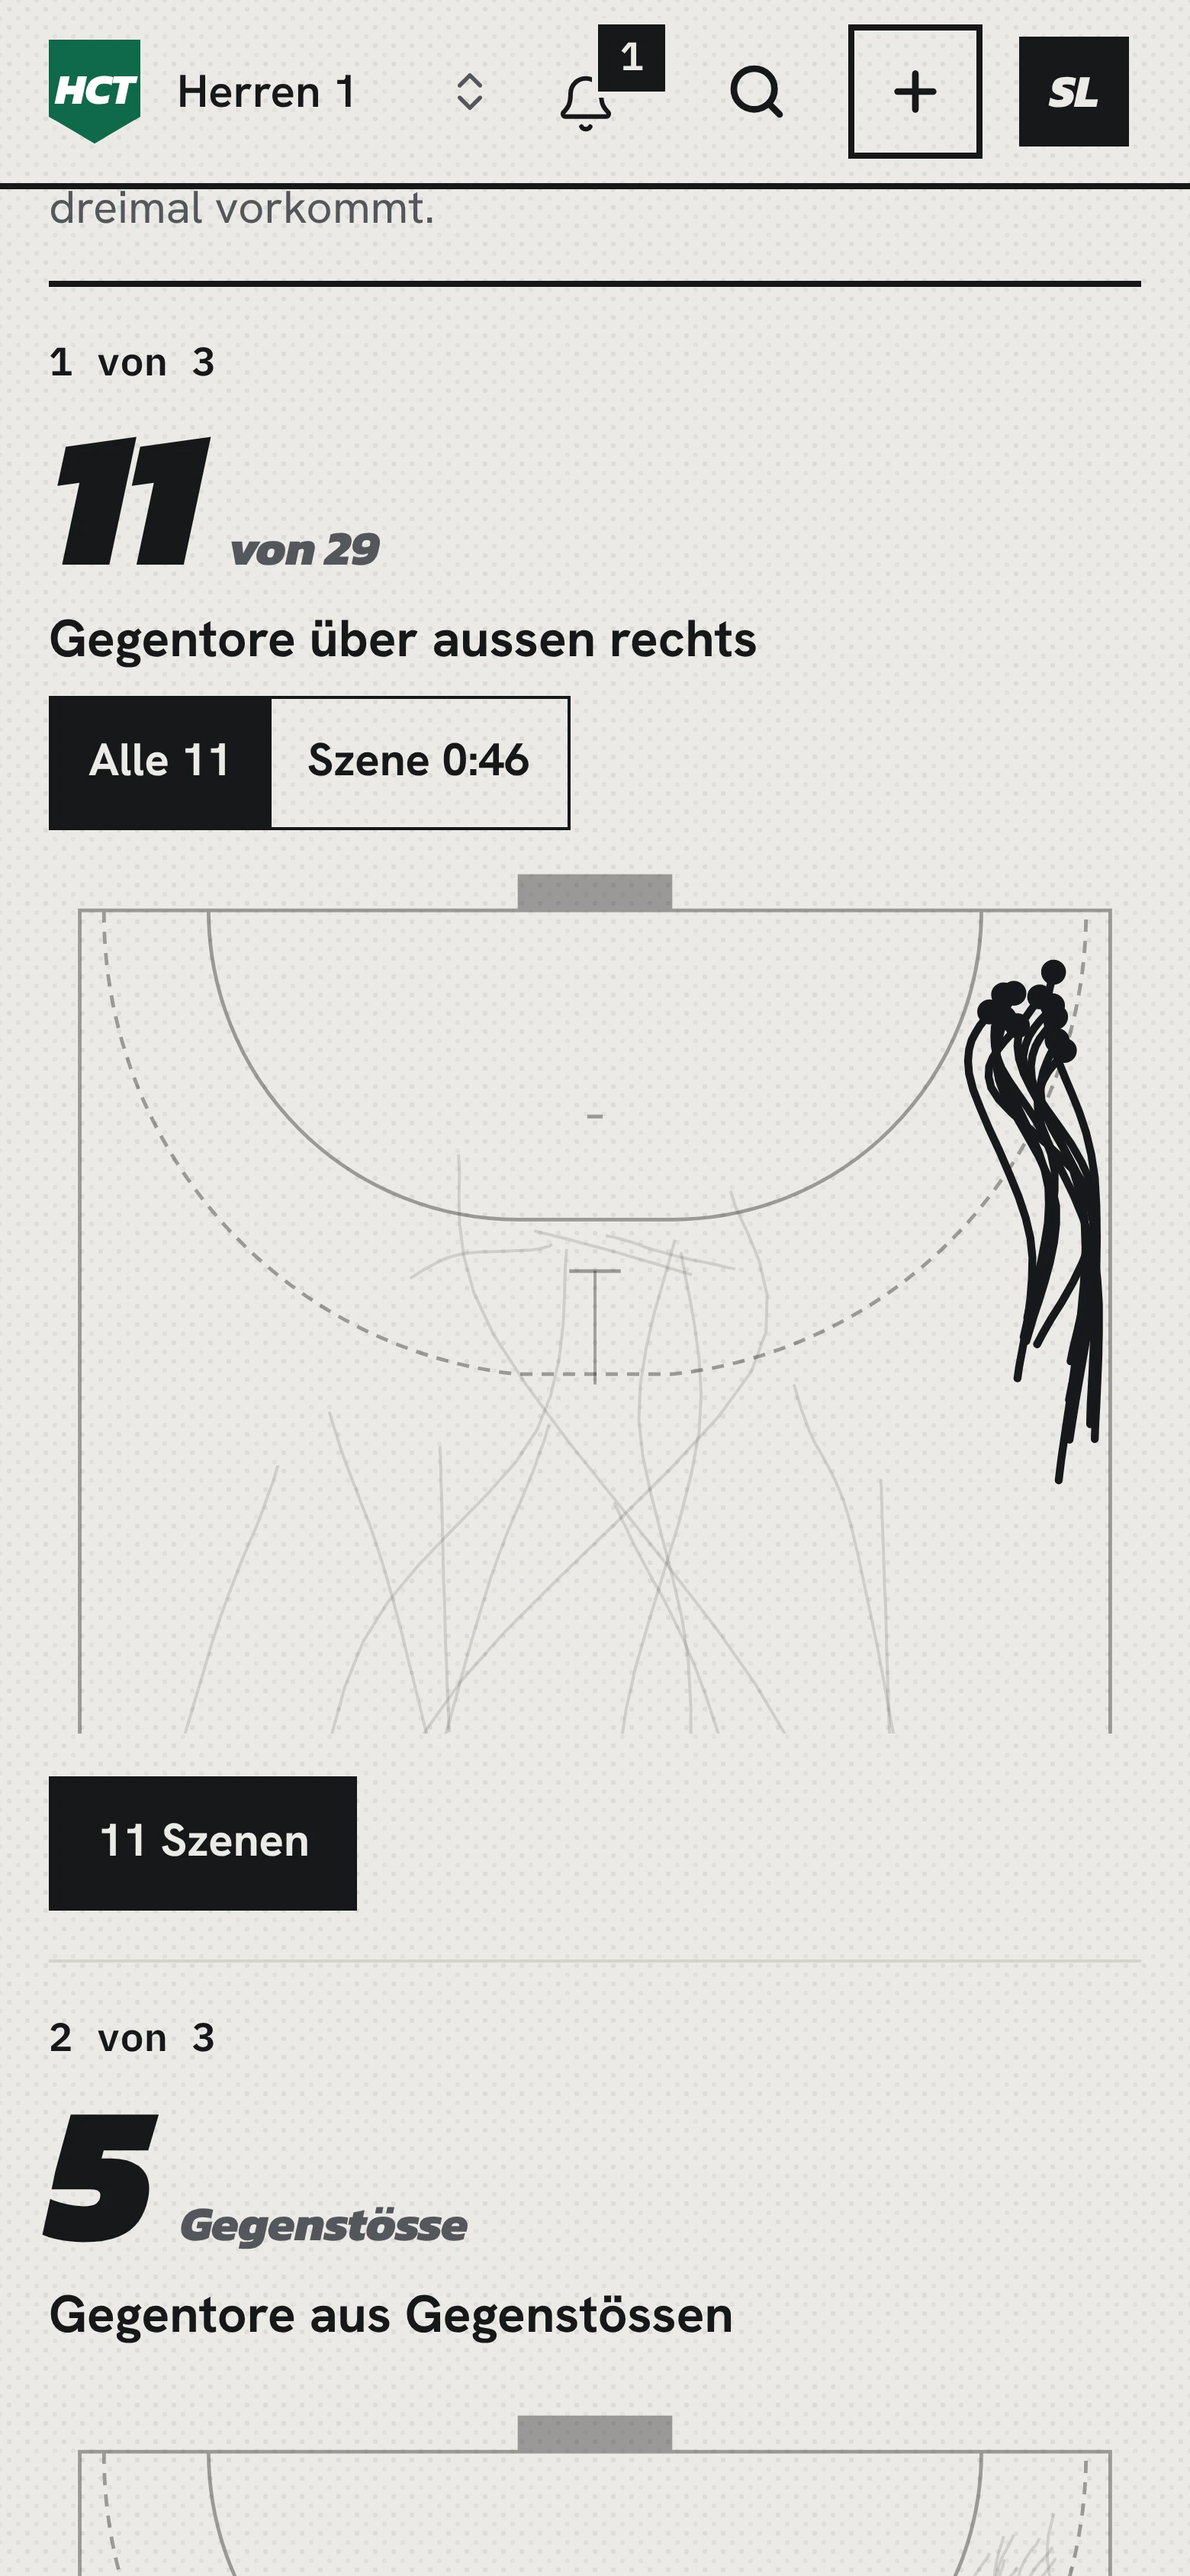
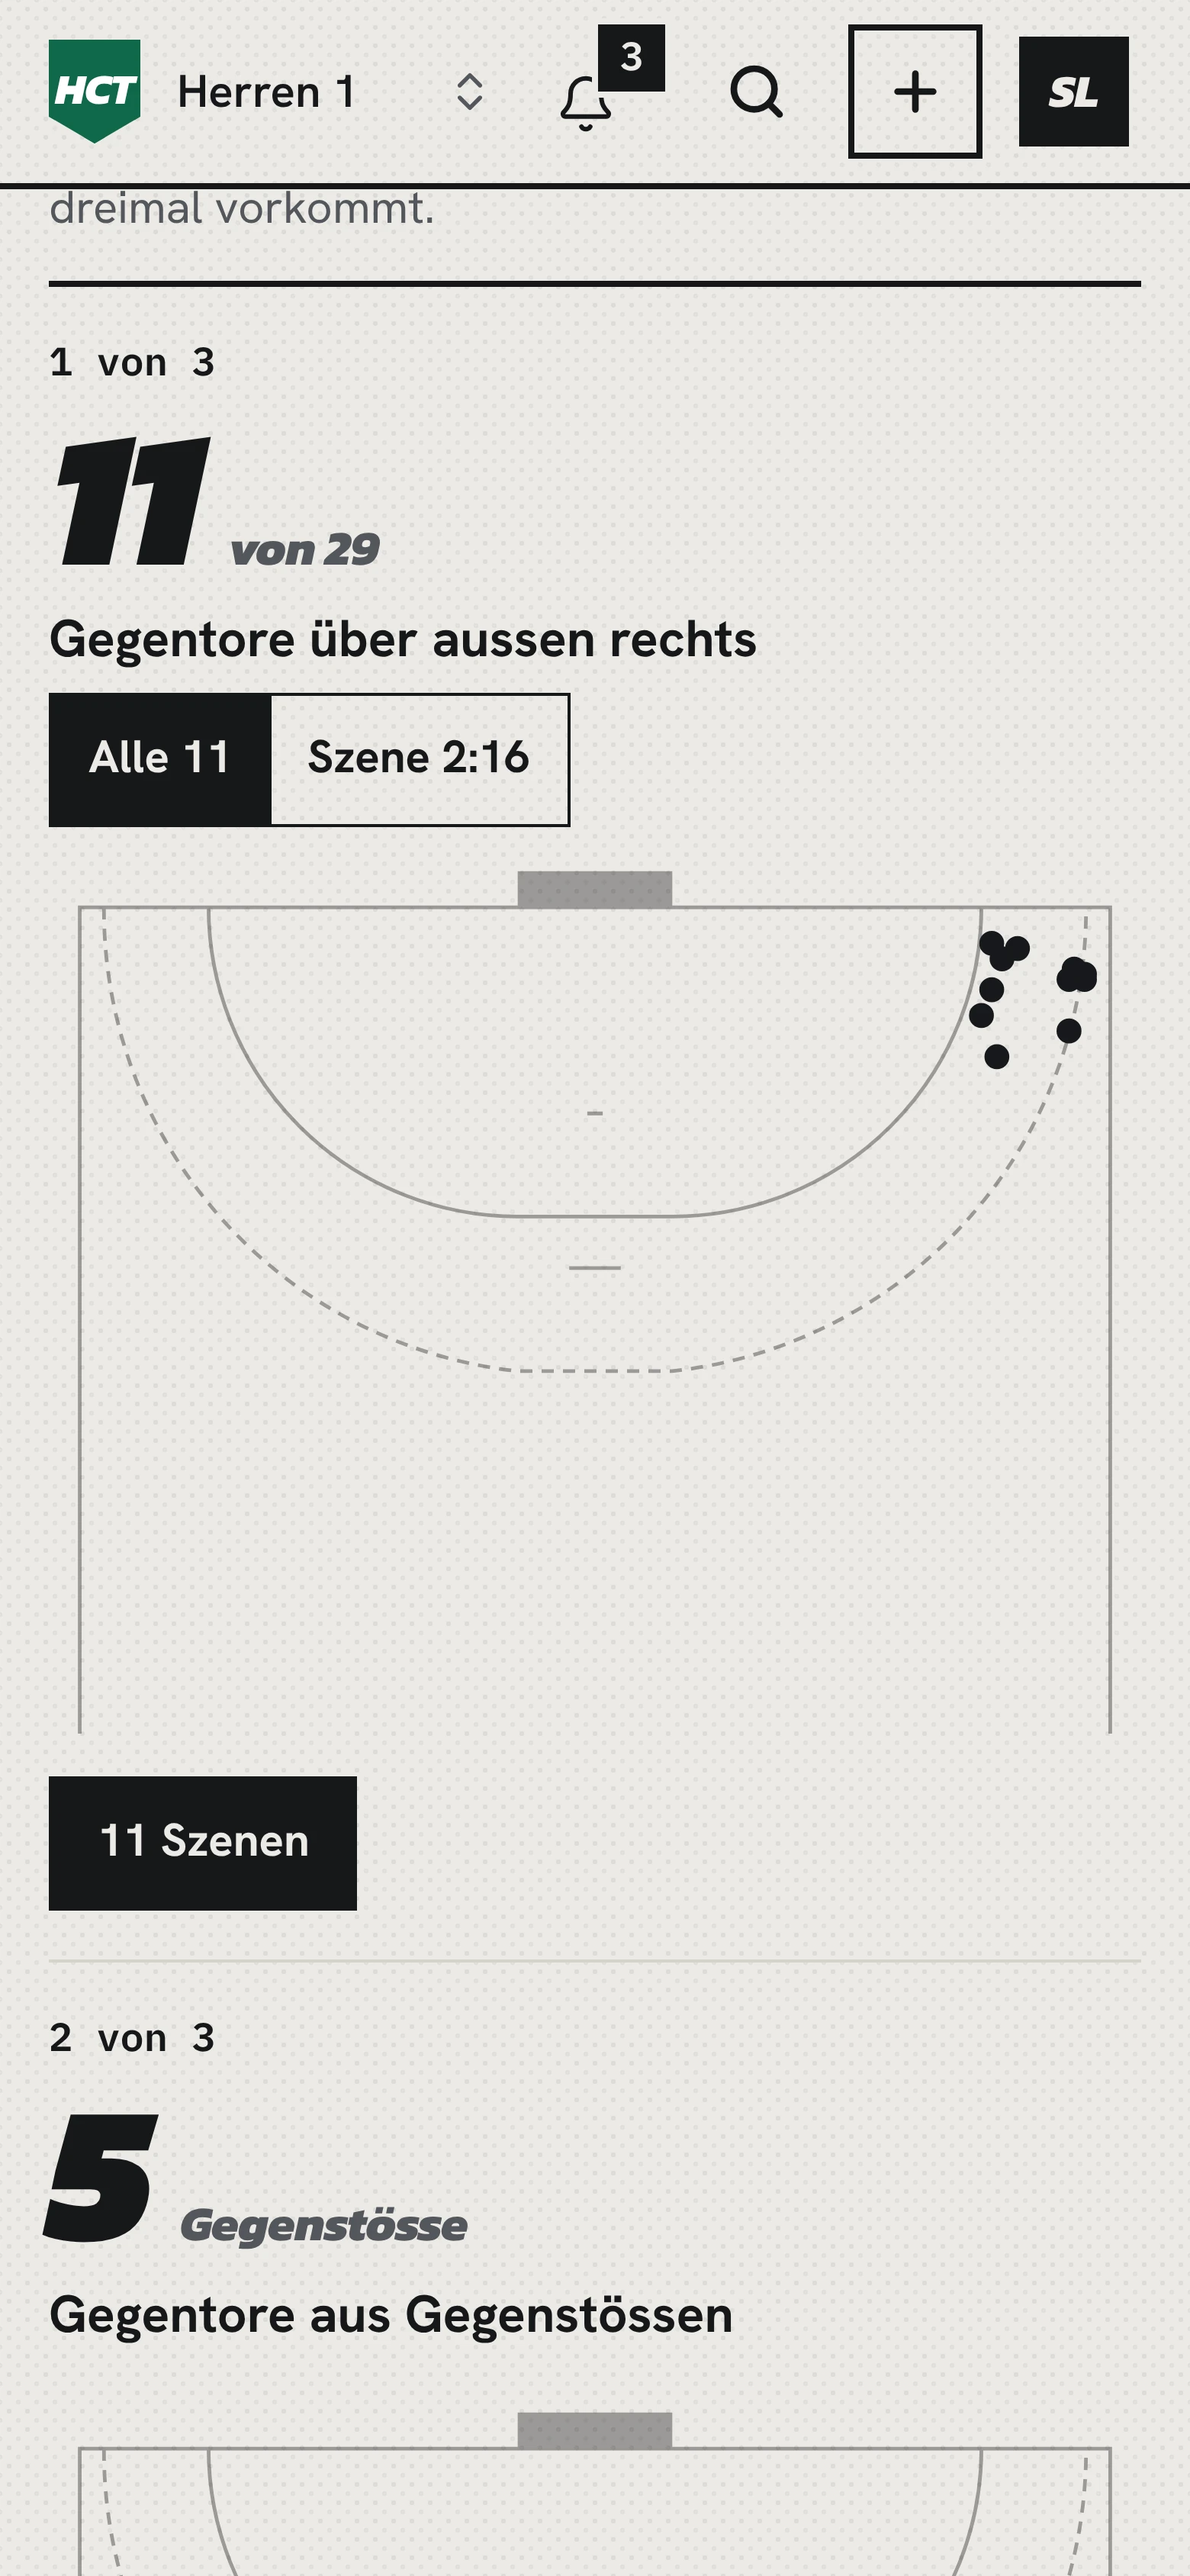
Demo match: goals at a match's pace, the video picture in the 6th minute
The scene list of the app picture showed «Minute 0 bis 4» with seven
goals (0:25, 0:31, 0:46 ...). These were the website match's own clocks:
make_demo.py drew all shot times of a half at random, and chance put
seven goals into the first four minutes. The times of a half are now
drawn closer to an even pace (even_out, same draws, same order), so the
first goal falls in the 2nd minute and a phase holds the goals of a
real match; score, half-time, the three things and every figure stay.

The video picture opens the second goal over the right wing as «Szene
zeigen» does (?tab=video&scene=): «Minute 2 bis 9», the scene at 5:01,
the timeline's playhead and the player's line (drawn for a 60-minute
video) at the 5th minute. All pictures taken again from a fresh seed.

Claude-Session: https://claude.ai/code/session_01H3gogAPSyQiYdtAJAURpx7

diff --git a/apps/site/scripts/product-shots/templates/app-desktop.html b/apps/site/scripts/product-shots/templates/app-desktop.html
@@ -20,8 +20,8 @@
   S.stage(W, Math.round(30 + crop[3] * k + 4), { budget1x: 170 * 1024, budget2x: 340 * 1024 });
   const s = S.browser("video", crop, { left: 0, top: 0, width: W });
   document.querySelector(".browser").style.boxShadow = "none";
-  // the picture of the player (above its controls), and the player's line at the start of the
-  // scene that plays (capture.mjs)
-  S.lettering(S.video(s, vid, { cut: 78, bar: 63, at: 0 }));
+  // the picture of the player (above its controls), and the player's line of a 60-minute video at
+  // the start of the scene that plays (4:53 of 60, capture.mjs)
+  S.lettering(S.video(s, vid, { cut: 78, bar: 63, at: 0.082 }));
   S.done();
 </script>

diff --git a/apps/site/scripts/product-shots/templates/get-video.html b/apps/site/scripts/product-shots/templates/get-video.html
@@ -20,7 +20,7 @@
     },
   );
   // the video: the hall recording, blurred past recognition; the website writes «Dein Spiel» on it
-  S.lettering(S.video(s, video, { cut: 78, bar: 63, at: 0 }));
+  S.lettering(S.video(s, video, { cut: 78, bar: 63, at: 0.082 }));
   S.ring(s, active, 3);
   // the label sits on the dark hall wall of the video, the arrow goes to the scene in the list
   S.callout("tap", S.at(s, video, 0.5, 0.16), S.at(s, active, -0.02, 0.5), "t", 0.22);

diff --git a/apps/site/scripts/make_demo.py b/apps/site/scripts/make_demo.py
@@ -137,6 +137,14 @@ def own_number(kind: str, y: float, used: dict[str, int]) -> int:
     return numbers[n % len(numbers)]
 
 
+def even_out(raw: list[float], start: float) -> list[float]:
+    """Shot times of a half, drawn at random but closer to an even pace: pure chance put seven goals
+    into the first four minutes, which no coach believes. The order (and so every count) stays."""
+    n = len(raw)
+    even = [start + 90 + (k + 0.5) * 1690 / n for k in range(n)]
+    return [0.3 * r + 0.7 * e for r, e in zip(raw, even, strict=True)]
+
+
 def build(seed: int = SEED) -> dict[str, Any]:
     rnd = random.Random(seed)  # noqa: S311 (seeded demo data, not security)
     events: list[Event] = []
@@ -151,7 +159,7 @@ def build(seed: int = SEED) -> dict[str, Any]:
             shots += [(side, kind, False) for kind in kinds]
         rnd.shuffle(shots)
         start = (period - 1) * 1800.0
-        clocks = sorted(rnd.uniform(start + 20, start + 1790) for _ in shots)
+        clocks = even_out(sorted(rnd.uniform(start + 20, start + 1790) for _ in shots), start)
         for clock, (side, kind, goal) in zip(clocks, shots, strict=True):
             x, y = spot(rnd, kind, side)
             number = rnd.choice([3, 5, 9, 11, 14, 18])
